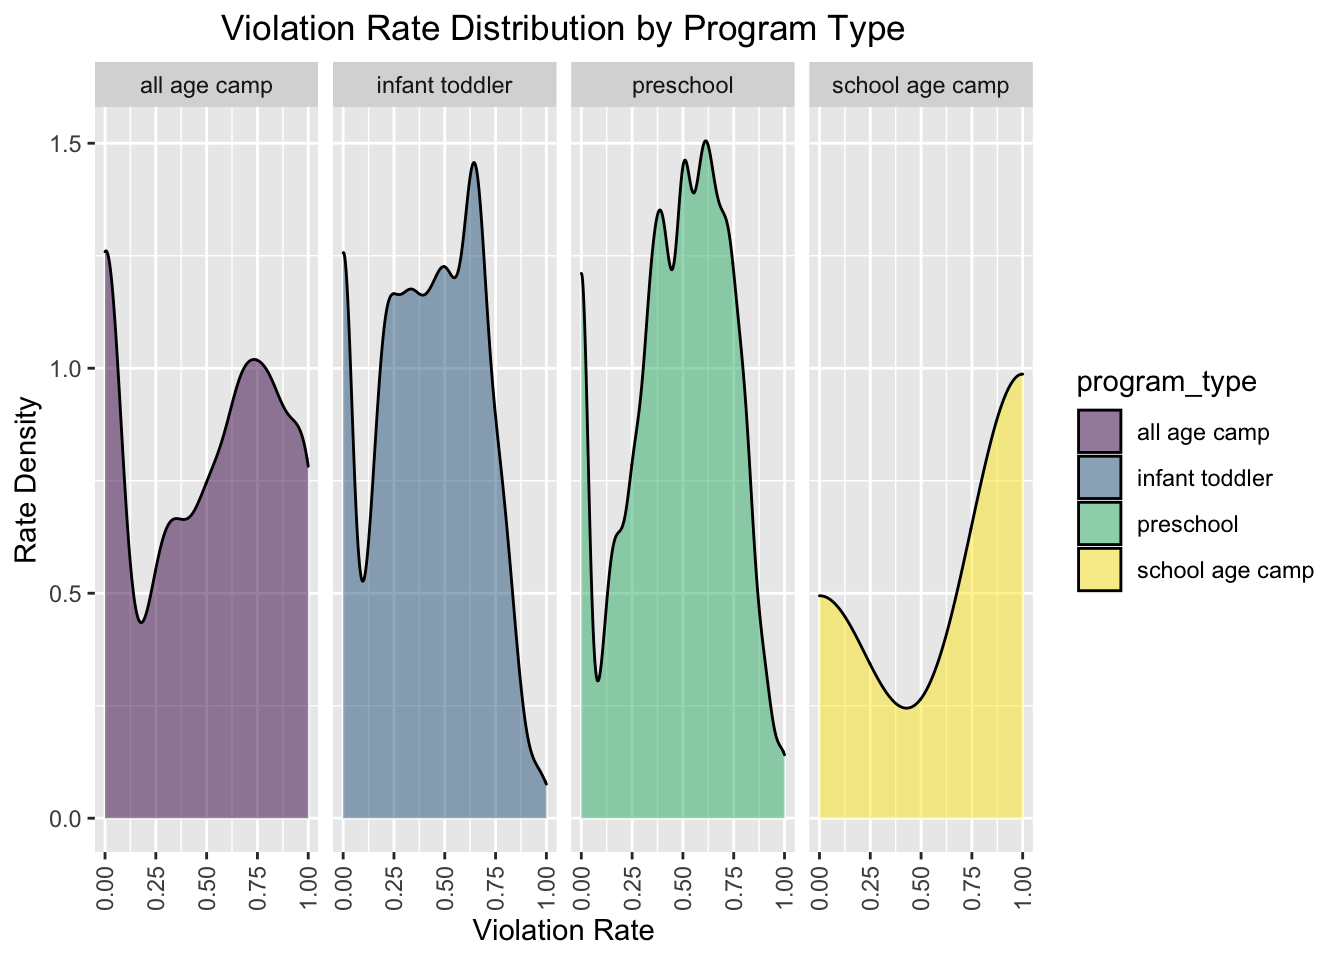
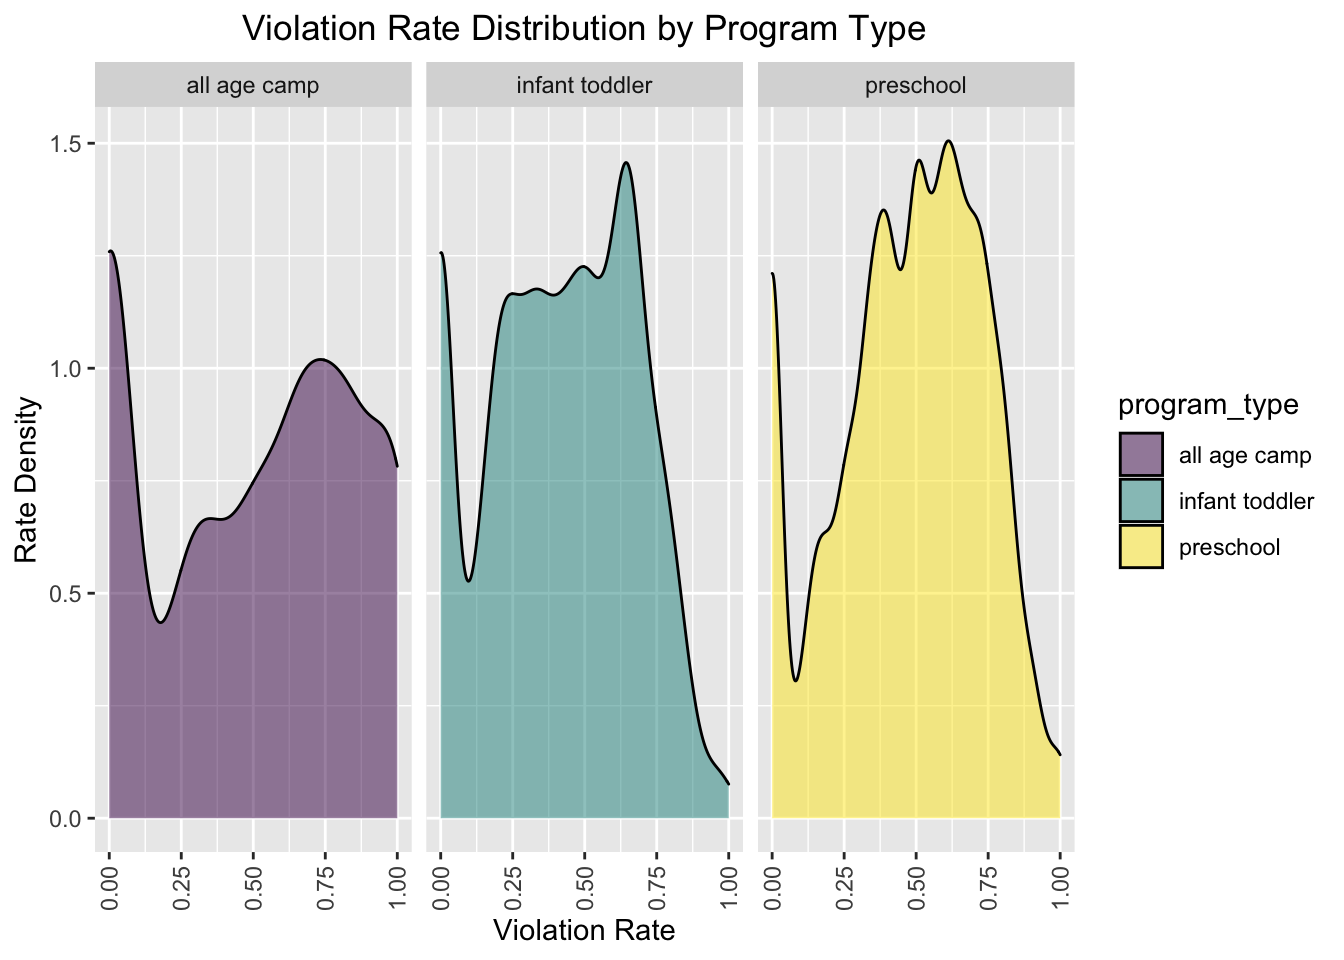
Visualization of violation frequency and violation rate distribution

diff --git a/violation_category_viz.html b/violation_category_viz.html
@@ -11,7 +11,7 @@
 
 
 
-<title>Number of violations by violation category</title>
+<title>Violation Frequency</title>
 
 <script src="site_libs/header-attrs-2.16/header-attrs.js"></script>
 <script src="site_libs/jquery-3.6.0/jquery-3.6.0.min.js"></script>
@@ -395,14 +395,14 @@ div.tocify {
 
 
 
-<h1 class="title toc-ignore">Number of violations by violation
-category</h1>
+<h1 class="title toc-ignore">Violation Frequency</h1>
 
 </div>
 
 
-<div id="frequency-of-violation-category" class="section level2">
-<h2>Frequency of violation category</h2>
+<pre class="r"><code>knitr::opts_chunk$set(
+  warning = FALSE,
+  message = FALSE)</code></pre>
 <pre class="r"><code>library(tidyverse)
 library(dplyr)
 library(rvest)
@@ -413,29 +413,9 @@ library(mgcv)
 library(patchwork)
 library(viridis)
 library(fastDummies)
+set.seed(1)
 
-knitr::opts_chunk$set(
-    echo = TRUE,
-    warning = FALSE,
-  fig.width = 6,
-  fig.asp = .6,
-  out.width = &quot;90%&quot;
-)
-
-theme_set(theme_minimal() + theme(legend.position = &quot;bottom&quot;))
-
-options(
-  ggplot2.continuous.colour = &quot;viridis&quot;,
-  ggplot2.continuous.fill = &quot;viridis&quot;
-)
-
-scale_colour_discrete = scale_colour_viridis_d
-scale_fill_discrete = scale_fill_viridis_d
-set.seed(1)</code></pre>
-<pre class="r"><code>knitr::opts_chunk$set(
-  warning = FALSE,
-  message = FALSE)</code></pre>
-<pre class="r"><code>childcare_inspection_df = read_csv(&quot;./data/DOHMH_Childcare_Center_Inspections.csv&quot;) %&gt;% 
+childcare_inspection_df = read_csv(&quot;./data/DOHMH_Childcare_Center_Inspections.csv&quot;) %&gt;% 
 janitor::clean_names() %&gt;% 
 distinct() %&gt;% 
     select(center_name, borough, zip_code, status, age_range, maximum_capacity,program_type, facility_type, 
@@ -454,8 +434,10 @@ distinct() %&gt;%
     facility_type = as.factor(facility_type),
     child_care_type = as.factor(child_care_type),
     age_range = as.factor(age_range)
-  ) </code></pre>
-<pre class="r"><code>center_specific_df = childcare_inspection_df %&gt;% 
+  ) %&gt;% 
+  filter(program_type != &quot;school age camp&quot;)
+
+center_specific_df = childcare_inspection_df %&gt;% 
   relocate(center_name, program_type) %&gt;% 
   group_by(center_name, program_type) %&gt;% 
   mutate(
@@ -463,11 +445,9 @@ distinct() %&gt;%
     n_violation = sum(!is.na(violation_category)), 
     rate = n_violation/(n_violation + n_na)) %&gt;% 
   arrange(center_name, program_type)</code></pre>
-</div>
-<div id="frequency-of-program-type" class="section level2">
-<h2>Frequency of program type</h2>
+<div id="number-of-violations-by-program-type" class="section level2">
+<h2>Number of violations by program type</h2>
 <pre class="r"><code>frequency_program_type = childcare_inspection_df %&gt;% 
-  drop_na(program_type) %&gt;% 
   count(program_type) %&gt;% 
   mutate(
     program_type = fct_reorder(program_type, n)
@@ -481,7 +461,24 @@ distinct() %&gt;%
     fill = &quot;program_type&quot;) +
   theme(axis.text.x = element_text(angle = 0, hjust = 0.5),plot.title = element_text(hjust = 0.5))
 frequency_program_type</code></pre>
-<p><img src="violation_category_viz_files/figure-html/unnamed-chunk-5-1.png" width="90%" /></p>
+<p><img src="violation_category_viz_files/figure-html/unnamed-chunk-3-1.png" width="672" />
+## Number of violations by violation category</p>
+<pre class="r"><code>frequency_violation_category = childcare_inspection_df %&gt;% 
+  drop_na(violation_category) %&gt;% 
+  count(violation_category) %&gt;% 
+  mutate(
+   violation_category = fct_reorder(violation_category, n)
+    ) %&gt;% 
+  ggplot(aes(x = violation_category, y = n, fill = violation_category)) + 
+  geom_bar(stat = &quot;identity&quot;) + 
+  labs(
+    title = &quot;Frequency of Violations by Violation Category&quot;,
+    x = &quot;Violation Category&quot;,
+    y = &quot;Number of Violations&quot;,
+    fill = &quot;program_type&quot;) +
+  theme(axis.text.x = element_text(angle = 0, hjust = 0.5),plot.title = element_text(hjust = 0.5))
+frequency_violation_category </code></pre>
+<p><img src="violation_category_viz_files/figure-html/unnamed-chunk-4-1.png" width="672" /></p>
 </div>
 
 

diff --git a/rate_borough_viz.html b/rate_borough_viz.html
@@ -339,7 +339,7 @@ div.tocify {
   </a>
   <ul class="dropdown-menu" role="menu">
     <li>
-      <a href="model1.html">Model 1</a>
+      <a href="rate_borough_viz.html">Violation Rate Distribution</a>
     </li>
     <li>
       <a href="model2.html">Model 2</a>
@@ -441,7 +441,8 @@ distinct() %&gt;%
     facility_type = as.factor(facility_type),
     child_care_type = as.factor(child_care_type),
     age_range = as.factor(age_range)
-  ) </code></pre>
+  ) %&gt;% 
+  filter(program_type != &quot;school age camp&quot;)</code></pre>
 <pre class="r"><code>center_specific_df = childcare_inspection_df %&gt;% 
   relocate(center_name, program_type) %&gt;% 
   group_by(center_name, program_type) %&gt;% 
